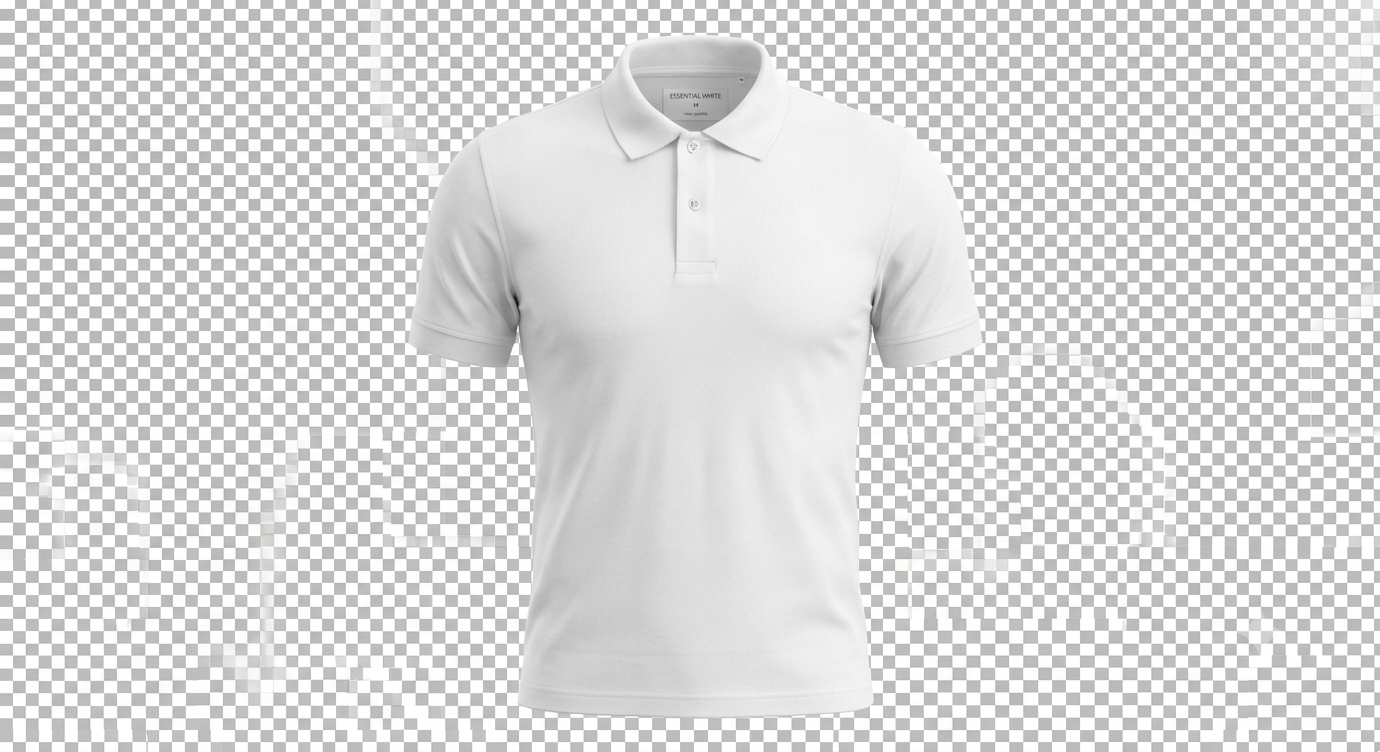
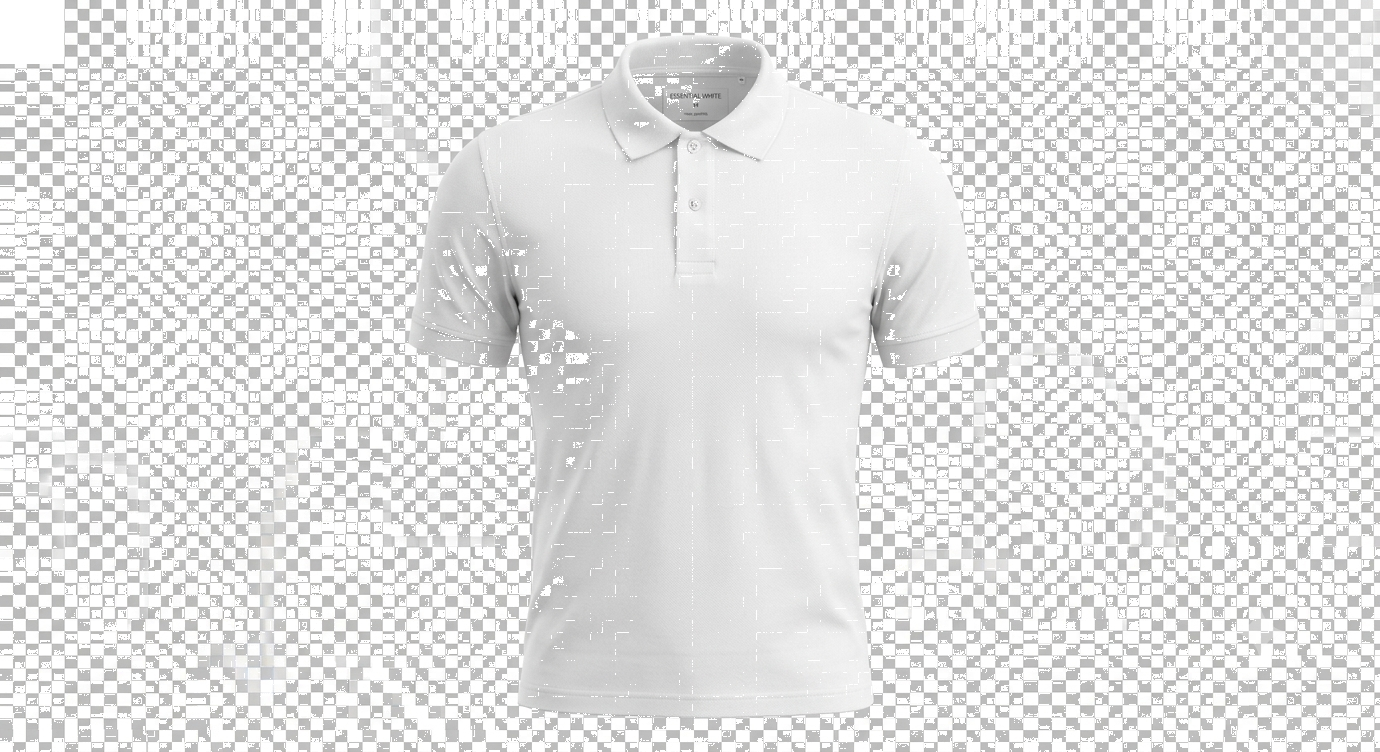
Use pattern matching to physically remove fake transparency checkerboard from user uploaded polo shirt

diff --git a/remove_checker.py b/remove_checker.py
@@ -1,0 +1,36 @@
+from PIL import Image
+
+def remove_checkerboard(input_path, output_path):
+    img = Image.open(input_path).convert("RGBA")
+    data = img.load()
+    width, height = img.size
+    
+    # The top-left 128x128 is completely background checkerboard.
+    # We will use it as a repeating tile to identify the background.
+    pattern_w = 64
+    pattern_h = 64
+    
+    # Store the pattern
+    pattern = {}
+    for y in range(pattern_h):
+        for x in range(pattern_w):
+            pattern[(x, y)] = data[x, y]
+            
+    # Iterate and remove matching pixels
+    for y in range(height):
+        for x in range(width):
+            px = data[x, y]
+            pat_px = pattern[(x % pattern_w, y % pattern_h)]
+            
+            # Calculate distance to handle slight compression noise
+            dist = abs(px[0] - pat_px[0]) + abs(px[1] - pat_px[1]) + abs(px[2] - pat_px[2])
+            
+            # If it matches the checkerboard pattern, make it transparent
+            if dist < 12:
+                data[x, y] = (255, 255, 255, 0)
+                
+    img.save(output_path, "PNG")
+
+remove_checkerboard("polo_shirt.png", "White Polo Shirt.png")
+remove_checkerboard("polo_shirt.png", "White Shirt.png")
+print("Done")